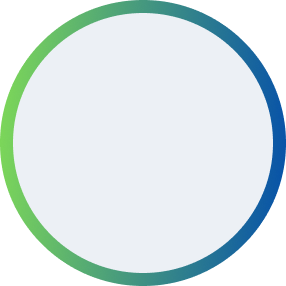
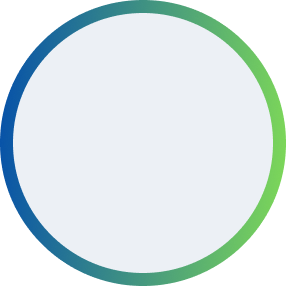
animation added

Changed region(s): [[0.5594, 0.0, 1.0, 1.0], [0.0, 0.0, 0.4476, 0.979]]

diff --git a/file1.py b/file1.py
@@ -1,103 +1,176 @@
 
 
-from logging import exception
-from firebase_admin import firestore
-from firebase_admin import credentials
-import firebase_admin
+# from logging import exception
+# from firebase_admin import firestore
+# from firebase_admin import credentials
+# import firebase_admin
 
-cred = credentials.Certificate(r"cleaner-app-50143-firebase-adminsdk-cej46-ef12406467.json")
-firebase_admin.initialize_app(cred)
-def write_data(data):
+# cred = credentials.Certificate(r"cleaner-app-50143-firebase-adminsdk-cej46-ef12406467.json")
+# firebase_admin.initialize_app(cred)
+# def write_data(data):
     
-    db = firestore.client()
-    try:
-        db.collection('users').document('data').set({
-            'typed_data' : data,
-        }, merge= True)
-        print('data saved...')
-    except exception as e:
-        print(f'error occured. {e}')
+#     db = firestore.client()
+#     try:
+#         db.collection('users').document('data').set({
+#             'typed_data' : data,
+#         }, merge= True)
+#         print('data saved...')
+#     except exception as e:
+#         print(f'error occured. {e}')
 
-# write_data('hello shami.')
+# # write_data('hello shami.')
 
-def verify_registration():
-    db = firestore.client()
-    doc_ref = db.collection(u'activationKeys').stream()
-    for data in doc_ref:
-        doc_data = data.to_dict()
-        print(doc_data['key'])
-    # doc = doc_ref.get()
-    # if doc.exists:
-    #     doc = doc.to_dict()
-    #     print(doc)
-    # else:
-    #     print(u'No such document!')
+# def verify_registration():
+#     db = firestore.client()
+#     doc_ref = db.collection(u'activationKeys').stream()
+#     for data in doc_ref:
+#         doc_data = data.to_dict()
+#         print(doc_data['key'])
+#     # doc = doc_ref.get()
+#     # if doc.exists:
+#     #     doc = doc.to_dict()
+#     #     print(doc)
+#     # else:
+#     #     print(u'No such document!')
 
-verify_registration()
+# verify_registration()
 
-# import getpass
-# userID = getpass.getuser()
-# import socket
-# machineID = socket.gethostname()
-# print(userID)
-# print(machineID)
+# # import getpass
+# # userID = getpass.getuser()
+# # import socket
+# # machineID = socket.gethostname()
+# # print(userID)
+# # print(machineID)
 
+# # from tkinter import *
+# # import random
+
+# # root = Tk()
+# # root.title('Register')
+# # # root.iconbitmap('c:/gui/codemy.ico')
+# # root.geometry("500x500")
+
+# # # Generate Key
+# # def generate():
+# # 	# Clear key label
+# # 	key_label.delete(0, END)
+# # 	verify_label.config(text="")
+
+# # 	# Set some defaults
+# # 	key = ''
+# # 	section = ''
+# # 	check_digit_count = 0
+# # 	alphabet = 'abcdefghijklmnopqrstuvwxyz1234567890'
+
+# # 	# key = aaaa-bbbb-cccc-dddd-1111 or 24 characters
+
+# # 	while len(key) < 25:
+# # 		# Randomly pick digit from alphabet
+# # 		char = random.choice(alphabet)
+# # 		# Add random choice to key
+# # 		key += char
+# # 		# Also add the random choice to the section blob
+# # 		section += char
+
+# # 		# Add in the dashes/hyphens
+# # 		if len(section) == 4:
+# # 			# add in a hyphen
+# # 			key += '-'
+# # 			# Reset the section to nothing
+# # 			section = ''
+# # 	# set key to all but the last digit
+# # 	key = key[:-1]
+
+# # 	# output the key
+# # 	key_label.insert(0, key)
+
+# # # Create a button
+# # generate_button = Button(root, text="Generate Key!", font=("Helvetica", 32), command=generate)
+# # generate_button.pack(pady=50)
+
+# # # Key Label
+# # key_label = Entry(root, font=("Helvetica", 24), bd=0, bg="systembuttonface", width=25)
+# # key_label.pack(pady=10, padx=50)
+
+# # # Verify Label
+# # verify_label = Label(root, text="Waiting...", font=("Helvetica", 32))
+# # verify_label.pack(pady=10)
+
+# # # Score Label
+# # score_label = Label(root, text="Score: ", font=("Helvetica", 32))
+# # score_label.pack(pady=10)
+
+# # root.mainloop()
+
+import tkinter as tk
+from PIL import ImageTk
+from PIL import Image
+
+class SimpleApp(object):
+    def __init__(self, master, filename, **kwargs):
+        self.master = master
+        self.filename = filename
+        self.canvas = tk.Canvas(master, width=500, height=500)
+        self.canvas.pack()
+
+        self.update = self.draw().__next__
+        master.after(100, self.update)
+
+    def draw(self):
+        image = Image.open(self.filename)
+        angle = 0
+        while True:
+            tkimage = ImageTk.PhotoImage(image.rotate(angle))
+            canvas_obj = self.canvas.create_image(
+                250, 250, image=tkimage)
+            self.master.after_idle(self.update)
+            yield
+            self.canvas.delete(canvas_obj)
+            angle += 10
+            angle %= 360
+
+root = tk.Tk()
+app = SimpleApp(root, 'assets/gradient_frame.png')
+root.mainloop()
+# import time
+# import tkinter
 # from tkinter import *
-# import random
+# import cv2
+# import numpy as np
+# from PIL import ImageTk, Image
+# global rotater
+# rotater=True
+# def rotate_img(img_path, rt_degr):
+#     img = Image.open(img_path)
+#     return img.rotate(rt_degr, expand=1)
 
+# def draw():
+#     global rotater, image # use global "image"
+
+#     if rotater:
+#         img_rt_90 = rotate_img("assets/gradient_frame.png", 90)
+#         img_rt_90.save("assets/gradient_frame.png")
+#         image = ImageTk.PhotoImage(img_rt_90) # update image with rotated one
+#         label.config(image=image)
+#         rotater = False
+#     else:
+#         img_rt_90 = rotate_img("assets/gradient_frame.png", 90)
+#         img_rt_90.save("assets/gradient_frame.png")
+#         image = ImageTk.PhotoImage(img_rt_90) # update image with rotated one
+#         label.config(image=image)
+#         rotater = True
+        
+# def rotate():
+#     while True:
+#         time.sleep(0.2)
+#         draw()
 # root = Tk()
-# root.title('Register')
-# # root.iconbitmap('c:/gui/codemy.ico')
-# root.geometry("500x500")
-
-# # Generate Key
-# def generate():
-# 	# Clear key label
-# 	key_label.delete(0, END)
-# 	verify_label.config(text="")
-
-# 	# Set some defaults
-# 	key = ''
-# 	section = ''
-# 	check_digit_count = 0
-# 	alphabet = 'abcdefghijklmnopqrstuvwxyz1234567890'
-
-# 	# key = aaaa-bbbb-cccc-dddd-1111 or 24 characters
-
-# 	while len(key) < 25:
-# 		# Randomly pick digit from alphabet
-# 		char = random.choice(alphabet)
-# 		# Add random choice to key
-# 		key += char
-# 		# Also add the random choice to the section blob
-# 		section += char
-
-# 		# Add in the dashes/hyphens
-# 		if len(section) == 4:
-# 			# add in a hyphen
-# 			key += '-'
-# 			# Reset the section to nothing
-# 			section = ''
-# 	# set key to all but the last digit
-# 	key = key[:-1]
-
-# 	# output the key
-# 	key_label.insert(0, key)
-
-# # Create a button
-# generate_button = Button(root, text="Generate Key!", font=("Helvetica", 32), command=generate)
-# generate_button.pack(pady=50)
-
-# # Key Label
-# key_label = Entry(root, font=("Helvetica", 24), bd=0, bg="systembuttonface", width=25)
-# key_label.pack(pady=10, padx=50)
-
-# # Verify Label
-# verify_label = Label(root, text="Waiting...", font=("Helvetica", 32))
-# verify_label.pack(pady=10)
-
-# # Score Label
-# score_label = Label(root, text="Score: ", font=("Helvetica", 32))
-# score_label.pack(pady=10)
-
+# image = cv2.imread("assets/gradient_frame.png")
+# image = cv2.cvtColor(image, cv2.COLOR_BGR2RGB)
+# image = Image.fromarray(image)
+# image = ImageTk.PhotoImage(image)
+# label = Label(image=image)
+# label.pack()
+# but12=Button(root,text="deneme",command=rotate)
+# but12.pack()
 # root.mainloop()
